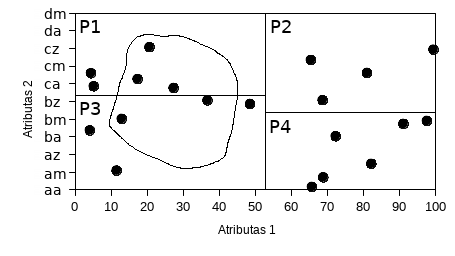
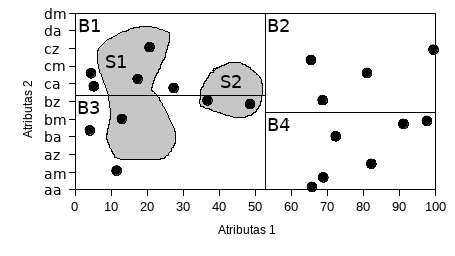
Fix introduction according to professors remarks

diff --git a/MagistroStudijos/MagistrinisDarbas/sections/introduction.tex b/MagistroStudijos/MagistrinisDarbas/sections/introduction.tex
@@ -7,54 +7,126 @@
 \sectionnonum{Įvadas}
 
 % Kas yra biometrines identifikavimo sistemos
-Kiekvieno žmogaus kūnas turi aibę savybių, kurios gali unikaliai jį identifikuoti (pvz.: pirštų atspaudai).
-Šių savybių egzistavimas davė pagrindą {\it biometrinėms identifikavimo sistemoms}.
-Biometrinio identifikavimo sistema yra tokia sistema, kuri geba palyginti kandidato biometrinius įrašus su aibe kitų biometrinių įrašų ir atrinkti kurie iš jų galėtų priklausyti tam pačiam žmogui.
-Tokiose sistemose yra poreikis gebėti atrinkti poaibį visų žinomų biometrinių įrašų, su kuriais būtų atliekamas biometrinis palyginimas.
+Kiekvieno žmogaus kūnas turi aibę požymių, kurie gali unikaliai jį identifikuoti (pvz.: pirštų atspaudai).
+Šių požymių egzistavimas davė pagrindą {\it biometrinėms identifikavimo sistemoms}.
+Šių sistemų paskirtis yra tarp visų užregistruotų žmonių surasti tą, kuriam priklauso duotieji biometriniai požymiai.
+Šiame darbe nagrinėjamoje sistemoje \cite{NeurotechnologyMegamatcherAccelerator} sąrašas žmonių, tarp kurių yra vykdoma paieška, yra papildomai atrenkamas pagal vartotojo pateiktą užklausą.
+Ši užklausa sąrašą paieškai sudaro pagal papildomus, ne biometrinius, duomenis (pvz.: amžių, lytį, gyvenamąją vietą) priskirtus kiekvienam sistemoje užregistruotam žmogui.
+Tokios užklausos vadinamos {\it biografinėmis užklausomis}.
 
-% Kas yra biografinė užklausa ir biografiniai atributai?
-Šio poaibio sudarymas bei biometrinių įrašų palyginimas vadinamas {\it biografinių užklausų apdorojimu}.
-Atrinkimas yra vykdomas pagal {\it biografinius atributus}.
-Su kiekvienu biometriniu įrašu siejama aibė biografinių atributų (žr.: \ref{tab:exampleGallery} lentelę).
-Biografinis atributas tai yra papildomas duomuo (pvz.: žmogaus amžius, lytis, šalis kurioje gyvena ir pan.), kuris gali būti:
-\begin{itemize}
-\item skaitinio tipo
-\item simbolių eilutės (ang.: {\it string}) tipo
-\end{itemize}
-
-Esant poreikiui šis sąrašas gali būti plečiamas, tačiau darbo metu bus daroma prielaida, kad visi to pačio tipo atributai gali būti palyginami tarpusavyje.
-Bei visų galimų konkretaus tipo reikšmių aibė turi griežtą tvarką (ang.: {\it totally ordered}) palyginimo funkcijos atžvilgiu.
-
-Taip pat su biografine užklausa yra siejamas predikatas, pagal kurį yra įvertinama kiekvieno biometrinio įrašo biografinių atributų aibė siekant sudaryti įrašų poaibį palyginimams.
-Šis poaibis ir yra tas, su kuriuo bus atliekamas biometrinis palyginimas.
+\paragraph{Biografinė schema}
+Kokie konkrečiai papildomi duomenys gali būti priskiriami sistemoje užregistruotiems žmonėms yra nusprendžiama sistemos diegimo metu ir vėliau negali būti keičiami.
+Taip pat visiems registruojamiems žmonėms priskiriami tokie patys duomenys t.y. jeigu buvo nuspręsta, kad žmonėms bus papildomai priskiriamas gyvenamasis miestas ir amžius, tai šie duomenys turės būti priskirti kiekvienam žmogaus įrašui sistemos duomenų bazėje.
+Toks atributų sąrašas vadinamas {\it biografine schema}.
+Pavyzdžiui \ref{tab:exampleGallery} lentelėje pateiktame duomenų bazės pavyzdyje biografinė schema būtų \{„Miestas“, „Amžius“\}.
 
 \begin{table}[H]\footnotesize
 	\centering
 	\begin{tabular}{|c|c|c|c|}
 		\hline
-		\multirow{2}{*}{{\bf Subjektas}} & \multirow{2}{*}{{\bf Biometriniai duomenys}} & \multicolumn{2}{|c|}{{\bf Biografiniai atributai}}  \\ \cline{3-4}
-		& & {\bf Piršto atspaudo pozicija} & {\bf Amžius} \\
+		\multirow{2}{*}{{\bf Žmogus}} & \multirow{2}{*}{{\bf Biometriniai požymiai}} & \multicolumn{2}{|c|}{{\bf Papildomi duomenys}}  \\ \cline{3-4}
+		& & {\bf Miestas} & {\bf Amžius} \\
 		\hline
-		Jonas  & biometrinis įrašas & Kairys nykštys  & 25 \\ \cline{2-4}
-		       & biometrinis įrašas & Dešinys nykštys & 25 \\
+		Jonas  & biometrinių požymių įrašas & Vilnius & 25 \\ \cline{2-4}
 		\hline
-		Mindaugas & biometrinis įrašas & Kairys nykštys  & 35 \\ \cline{2-4}
-		          & biometrinis įrašas & Dešinys nykštys & 35 \\
+		Mindaugas & bioetrinių požymių įrašas & Vilnius & 35 \\ \cline{2-4}
+		\hline
+		Petras & biometrinių požymių įrašas & Kaunas & 15 \\ \cline{2-4}
+		\hline
+		Eglė & biometrinių požymių įrašas & Klaipėda & 45 \\ \cline{2-4}
 		\hline
 	\end{tabular}
 	\caption{Pavyzdiniai biometrinės identifikavimo sistemos duomenys}
 	\label{tab:exampleGallery}
 \end{table}
 
-% Kas yra biografinė schema?
-Visų biografinių atributų prasmių aibė vadinama {\it biografine schema}. Pavyzdžiui \ref{tab:exampleGallery} lentelę atitinkanti biografinė schema būtų \{„Piršto atspaudo pozicija“, „Amžius“\}.
+
+
+% Kas yra biografinė užklausa ir biografiniai atributai?
+\paragraph{Biografiniai atributai}
+
+Aptartieji papildomi duomenys vadinami {\it biografiniais atributais}.
+Verta atkreipti dėmesį į tai, kad šiame darbe biografiniai atributai yra supriešinami su biometriniais požymiais -- biografiniai atributai yra papildomi, būtinai ne biometriniai, duomenys.
+
+Nagrinėjama sistema palaiko dviejų tipų biografinius atributus:
+\begin{itemize}
+\item skaitinio tipo
+\item simbolių eilutės tipo
+\end{itemize}
+Tačiau esant poreikiui šis sąrašas gali būti plečiamas.
+
+Darbo metu bus daroma prielaida, kad tiems patiems atributams (pvz.: Petro ir Jono amžiui) yra apibrėžta palyginimo funkcija (\ref{eq:threeWayComparisonFunction}).
+\begin{equation}
+	f(x_1, x_2)=
+\begin{cases}
+	-1,& \text{jeigu } x_1 < x_2\\
+	0,& \text{jeigu } x_1 = x_2\\
+	1,& \text{jeigu } x_1 > x_2\\
+\end{cases}
+\label{eq:threeWayComparisonFunction}
+\end{equation}
+
+Čia $x_1$ ir $x_2$ yra atributo reikšmės.
+
+Taip pat darbe daroma prielaida, kad šios palyginimo funkcijos atžvilgiu atributo reikšmių aibė yra pilnai sutvarkyta. %TODO: ref?
+
+
+
+
+
+
+\paragraph{Duomenų bazės modelis}
+
+Šiame darbe remiamasi duomenų bazės modeliu „Data cube“ \cite{marcel2000modeling}.
+Nagrinėjoms sistemos \cite{NeurotechnologyMegamatcherAccelerator} atveju, daugiamatės erdvės ašys yra apibrėžiamos (\ref{eq:threeWayComparisonFunction}) funkcijos, taip kad:
+
+\begin{equation}
+	f(x_1, x_2)=-1
+\label{eq:increasingOrderOfAtributes}
+\end{equation}
+
+visiems $x_1$, $x_2$ kur $x_1$ ašyje yra „mažesnėje“ (pvz.: kairiau atributo 1 ašyje \ref{img:multidimensionalGallery} pav.) pozicijoje $x_2$ atžvilgiu.
+
+Žmonėms priskiriamų biografinių atributų reikšmių rinkiniai yra nagrinėjami kaip taškai šioje erdvėje.
+
+\begin{figure}[H]
+\begin{center}
+\includegraphics[width=0.5\textwidth]{img/MultidimensionalGallery.png}
+\caption{Pavyzdiniai biometriniai įrašai dviejų atributų (dvimatėje) reikšmių erdvėje.}
+\label{img:multidimensionalGallery}
+\end{center}
+\end{figure}
+
+\ref{img:multidimensionalGallery} paveikslėlyje pateikiamas tokios erdvės pavyzdys.
+Pavyzdyje (\ref{eq:threeWayComparisonFunction}) funkcija atributo 1 (kuris yra skaitinio tipo) reikšmes palygina pagal sveikų skaičių tvarką.
+O atributo 2 (kuris yra simbolių eilutės tipo) reikšmes palygina pagal leksikografinę tvarką.
+
+
+
+
+% Biometrinių įrašų blokai - particijos daugiamatėje erdvėje
+\paragraph{Biometrinių įrašų blokai daugiamatėje erdvėje}
+
+Nagrinėjamoje sistemoje \cite{NeurotechnologyMegamatcherAccelerator} žmogaus biometrinių požymių įrašai saugomi ir apdorojami ne po vieną, bet grupėmis.
+Šios grupės yra vadinamos {\it biometrinių įrašų blokais}.
+Kiekvienam įrašui registracijos metu yra laisvai parenkamas vienas blokas, kuriame jis bus saugomas.
+
+Šiame darbe nagrinėjamame duomenų bazės modelyje biometrinių įrašų blokai yra daugiamatės erdvės sritys, kurios apima visus konkrečiam blokui priskirtus įrašus (žr.: \ref{img:multidimensionalPartitionedGallery} pav.).
+
+\begin{figure}[H]
+\begin{center}
+\includegraphics[width=0.5\textwidth]{img/MultidimensionalPartitionedGallery.png}
+\caption{B1-B4 - erdvės sritys atitinkančios biometrinių įrašų blokus}
+\label{img:multidimensionalPartitionedGallery}
+\end{center}
+\end{figure}
+
+
 
 \paragraph{Biografinių užklausų predikatai}
 
-Vykstant biografinės užklausos apdorojimui, su ja susietas predikatas apsprendžia aibę biometrinių įrašų, kurie bus lyginami su kandidato biometriniu įrašu.
-Į šią aibę patenka tik tie biometriniai įrašai, kurių biografinių atributų aibė tenkina užklausos predikatą.
-Predikatai sistemai yra aprašomi specialia tam skirta kalba.
-\ref{tab:queryBNF} lentelė pateikia šios kalbos BNF formą.
+\cite{NeurotechnologyMegamatcherAccelerator} sistemoje žmonių sąrašas paieškai sudaromas pagal vartotojo užklausą.
+Šiai užklausai aprašyti yra skirta gramatika, kurios Backus ir Nauro forma yra pateikiama \ref{tab:queryBNF} lentelėje. %TODO ref?
 
 \begin{table}[H]\footnotesize
 	\centering
@@ -80,165 +152,73 @@ Predikatai sistemai yra aprašomi specialia tam skirta kalba.
 		raidė                         & ::= & "A" | "B" | "C" ... "Z" | "a" | "b" | "c" ... "z"  \\
 		\hline
 	\end{tabular}
-	\caption{Biografinės užklausos predikato aprašymo kalbos BNF forma}
+	\caption{Biografinės užklausos predikato aprašymo kalbos Backus ir Nauro forma}
 	\label{tab:queryBNF}
 \end{table}
 
-Keletas užklausos predikato aprašymo pavyzdžių pateikiama \ref{tab:queryExamples} lentelėje.
+Keletas užklausos pavyzdžių pateikiama \ref{tab:queryExamples} lentelėje laikant, kad biografinė schema yra \{„Miestas“, „Amzius“\}.
 
 \begin{table}[H]\footnotesize
 	\centering
-	\begin{tabular}{|c|l|}
+	\begin{tabular}{|c|c|l|}
 		\hline
-		{\bf Užklausos predikato aprašymas} & {\bf Užklausos prasmė} \\
+		& {\bf Užklausos aprašymas} & {\bf Užklausos interpretacija} \\
 		\hline
-		Amzius > '18' & Visi suaugę žmonės\\
+		Pavyzdys 1 & Amzius >= '18' & Visi suaugę žmonės\\
 		\hline
-		Amzius > '18' AND Miestas IN ('Vilnius', 'Kaunas', 'Klaipeda') & Visi suagę vilniečiai, kauniečiai ir klaipėdiečiai \\
+		Pavyzdys 2 & Amzius >= '18' AND Miestas IN ('Vilnius', 'Kaunas') & Visi suagę vilniečiai ir kauniečiai\\
 		\hline
-		NOT (Miestas = 'Vilnius' AND Amzius > '18') & Visi žmonės išskyrus suaugusius vilniečius \\
+		Pavyzdys 3 & NOT (Miestas = 'Vilnius' AND Amzius >= '18') & Visi žmonės išskyrus suaugusius vilniečius\\
 		\hline
 	\end{tabular}
-	\caption{Užklausų predikato aprašymo pavyzdžiai.}
+	\caption{Užklausų aprašymo pavyzdžiai.}
 	\label{tab:queryExamples}
 \end{table}
 
-% Sistemos greičio svarba, paminim, kad dirbsim su Neurotechnology akseleratorium
-\paragraph{Sistemos greitis}
 
-Biometrinio identifikavimo sistemos darbo greitis yra labai aktuali sistemos savybė.
-Kartais \cite{NeurotechnologyDRCDedublicationProject} \cite{NeurotechnologyVenezuelaDedublicationProject} tai yra pagrindinis faktorius apsprendžiantis projekto trukmę.
-Šiame darbe bus nagrinėjami metodai padedantys optimizuoti bendrą UAB „Neurotechnolgy“ biometrinės identifikavimo sistemos \cite{NeurotechnologyMegamatcherAccelerator} darbo greitį vykdant biografines užklausas.
 
-% Visa duomenų bazė RAM`e
-Tipinės biografinės užklausos metu palyginimui yra atrenkama didelė dalis visų sistemai žinomų biometrinių įrašų.
-Tai lėmė dizaino sprendimą saugoti visus sistemai žinomus biometrinius įrašus operatyviojoje kompiuterio ar serverio atmintyje darbo metu.
+\paragraph{Biografinių užklausų modelis}
 
-% Introducinam batch processingą ir blokus
-UAB „Neurotechnology“ biometrinio palyginimo algoritmai yra optimizuoti siekiant pagerinti procesoriaus spartinančiosios atminties išnaudojimą.
-Dėl šios priežasties biometriniai įrašai atmintyje laikomi optimizuojant atminties prieigos vientisumą.
-Tačiau ribotas spartinančiosios atminties kiekis lemia, kad atminties prieigos vientisumo poveikis juntamas tik iki tam tikro, nuo konkretaus procesoriaus priklausančio, atminties bloko dydžio.
-Tai lėmė, kad biometriniai įrašiai yra saugomi {\it biometrinių įrašų blokuose}.
-Biometrinių įrašų blokas yra visų žinomų biometrinių įrašų poaibis saugomas vientisame atminties bloke.
-
-Keletas svarbių biometrinių įrašų blokų savybių:
-\begin{itemize}
-\item Visų blokų dydžiai sistemoje yra vienodi.
-\item Kiekvienas biometrinis įrašas yra saugomas tiktai viename bloke siekiant maksimizuoti bendrą sistemos biometrinių įrašų talpą.
-\item Blokai gali turėti tuščių vietų.
-\item Maksimalus blokų kiekis yra ribotas ir apsrendžiamas techninės įrangos.
-\end{itemize}
-
-% Matchinam blokais
-Taip pat svarbu pastebėti tai, kad atliekant biometrinę identifikaciją biometrinio palyginimo operacijos yra vykdomos įrašų blokams, o ne pavieniams įrašams.
-Todėl net jeigu bloke yra įrašų, kurie neatitinka biografinės užklausos predikato, su jais vistiek yra vykdomas biometrinis palyginimas, tačiau jie neįtraukiami į galutinius rezultatus.
-
-%\begin{figure}[H]
-%\begin{center}
-%\includegraphics[width=0.4\textwidth]{img/BiometricRecordBlocks.eps}
-%\caption{Pavyzdiniai biometrinių įrašų blokai. \\ Čia taškai -- įrašai, o stačiakampiai -- blokai}
-%\label{img:exampleGallery}
-%\end{center}
-%\end{figure}
-
-% Aprašom problemą, kaip daugiamatės erdvės partitioningą.
-\paragraph{Duomenų reprezentacija}
-
-Šiame darbe biometriniai įrašai modeliuojami kaip taškai daugiamatėje erdvėje panašiai kaip \cite{marcel2000modeling} aptariamas „Data cube“ (žr.: \ref{img:multidimensionalGallery} pav.).
-Kiekviena erdvės ašis siejama su vieno atributo reikšmių aibe.
-Daroma prielaida, kad kiekvienam atributo tipui yra apibrėžta palyginimo funkcija, kuri apibrėžia griežtą reikšmių tvarką (ang.: {\it total order}).
-Pavyzdžiui simbolių eilutės tipo atributam galima palyginimo funcija būtų tokia, kuri palygina atributus leksikografiškai.
-Skaitiniai atributai gali būti rūšiuojami natūralia numerine tvarka.
-Atributų reikšmės pagal šią tvarką yra priskiriamos ašims (žr.: \ref{img:multidimensionalGallery} pav.).
-
-\begin{figure}[H]
-\begin{center}
-\includegraphics[width=0.5\textwidth]{img/MultidimensionalGallery.png}
-\caption{Pavyzdiniai biometriniai įrašai dviejų atributų (dvimatėje) reikšmių erdvėje.}
-\label{img:multidimensionalGallery}
-\end{center}
-\end{figure}
-
-% Biometrinių įrašų blokai - particijos daugiamatėje erdvėje
-\paragraph{Įrašų blokai daugiamatėje erdvėje}
-
-Biometriniai įrašai saugomi tik viename iš ankščiau minėtų biometrinių įrašų blokų, todėl šiuos blokus patogu analizuoti kaip daugiamatės erdvės particijas (žr.: \ref{img:multidimensionalPartitionedGallery} pav.).
-Verta paminėti, kad particija nebūtinai turi būti sulygiuota pagal erdvės ašis (nebūtinai turi būti stačiakampis dvimatės erdvės atveju ar gretasienis trimatėje erdvėje...).
-Taip pat, viena particija gali susidėti iš daugiau nei vienos, nebūtinai jungios dalies.
-Toks modelis nepraranda bendrumo ir leidžia atvaizduoti bet kokį biometrinių įrašų paskirstymą į blokus su bet kiek atributų.
-
-\begin{figure}[H]
-\begin{center}
-\includegraphics[width=0.5\textwidth]{img/MultidimensionalPartitionedGallery.png}
-\caption{Pavyzdinis skirstymas particijomis. P1-P3 - particijos atitinkančios biometrinių įrašų blokus}
-\label{img:multidimensionalPartitionedGallery}
-\end{center}
-\end{figure}
-
-Tokio modelio kontekste biometrinių įrašų pridėjimas į sistemą susideda iš šių poproblemių:
+Smulkiausias žmonių sąrašas kuriame \cite{NeurotechnologyMegamatcherAccelerator} sistema gali vykdyti paiešką yra vienas biometrinių įrašų blokas.
+Todėl vartotojo užklausos apdorojimas yra skaidomas į tokius tris etapus:
 \begin{enumerate}
-\item Parinkimo į kurią particiją bus įdedamas įrašas.
-\item Įrašų kiekiui viršyjus konstantinę ribą, particijos skėlimo į naujas particijas.
+	\item Atmetimo etapas: Atmetami visi blokai, kuriuose negali būti žmonių, kurių atributų rinkiniai atitinka vartotojo užklausą.
+	\item Paieškos etapas: Atliekama paieška blokuose, kurie liko po atmetimo etapo.
+	\item Filtravimo etapas: Atmetami visi paieškos etape rasti žmonės, kurių atributų rinkiniai neatitinka vartotojo užklausos.
 \end{enumerate}
 
-Verta pastebėti, kad sistema yra pritaikyta dirbti su didelais kiekiais įrašų, tad jų pridėjimo, bei biometriniam palyginimui skirto poaibio atrinkimo operacijos negali atsižvelgti į visus sistemoje esančius įrašus.
-Tai apriboja optimizacijas, kurias galima atlikti skirstant įrašus į blokus.
-Taip pat, įrašų perskirstymas į blokus, gali vykti nebent iteratyviai.
+Verta pastebėti, kad po atmetimo etapo likęs blokų kiekis priklauso nuo metodo, pagal kurį yra parenkama daugiamatės erdvės sritis atributų rinkinių saugojimui.
 
 
-\paragraph{Užklausų reprezentacija}
-
-Biografinės užklausos aprašomos \ref{tab:queryBNF} lentelėje gali apibrėžti bet kokį atributų reikšmių poaibį ir atitinkamai -- bet kokį biometrinių įrašų poabį.
-Neprarandant bendrumo šiuos poaibius nagrinėsime kaip vieną ar daugiau uždarų plotų atributų erdvėje -- poerdvių (žr.: \ref{img:multidimensionalPartitionedGalleryWithQuery} pav.). %todo: citata
-O ankščiau apibūdintas predikatas bus išreiškiamas kaip funkcija, kuri nustato ar biometrinių įrašų blokas persidengia su nors vienu iš užklausos poerdvių.
-
-\begin{figure}[H]
-\begin{center}
-\includegraphics[width=0.5\textwidth]{img/MultidimensionalPartitionedGalleryWithQuery.png}
-\caption{Pavyzdinė užklausa, kurios metu būtų palyginimi P1 ir P3 blokai.}
-\label{img:multidimensionalPartitionedGalleryWithQuery}
-\end{center}
-\end{figure}
-
-Bendruoju atveju, kuo užklausos poerdviai geriau atitinka biometrinių įrašų particijas, tuo mažiau atliekama nereikalingų biometrinių palyginimų.
-
-\paragraph{Blokų užpildymo problema}
-
-Biometrinių įrašų bloko dydis yra apribotas iš viršutinės pusės ir konkretaus bloko įrašų kiekiui pasiekus tą ribą, blokas yra skeliamas į du naujus.
-Tai reiškia, kad priklausomai nuo metodo, pagal kurį įrašai yra skirstomi į blokus, blokai yra užpildyti nuo 50\% iki 100\%.
-Verta pastebėti, kad neužpildytos vietos blokuose bereikalo švaisto atmintį ir blogiausiu atveju, kai užpildymas yra 50\% -- išvaistoma pusė blokam skirtos atminties.
-Todėl šiame darbe būtina atsižvelgti į šią problemą.
 
 \paragraph{Darbo tikslas}
 
-Šio darbo metu siekiama aprašyti bei įvertinti keletos biometrinių įrašų skaidymo į blokus metodų poveikį bendram UAB „Neurotechnolgy“ sistemos darbo greičiui bei palyginti juos su nemodifikuota sistema.
-Įvertinimas remiasi sąlyga, kad yra naudojamos biografinės užklausos realistiškai atspindinčios užklausas pasitaikančias realiose instaliacijose.
-Darbo metu bus nagrinėjami du metodai:
+Šio darbo metu siekiama padidinti biometrinės identifikavimo sistemos \cite{NeurotechnologyMegamatcherAccelerator} pralaidumą minimizuojant biometrinių įrašų blokų skaičių, kuris lieka po atmetimo etapo.
+
+Šiuo tiklsu bus įvertinami du metodai
 \begin{itemize}
-		\item Metodas paremtas priešdėliniu rūšavimu, kuris nuo šiol bus vadinamas „Prefix search“.
-		\item Metodas paremtas daugiamačiu „K-d medžiu“.
+		\item Metodas paremtas priešdėliniu rūšavimu.
+		\item Metodas paremtas K-d medžiu.
 \end{itemize}
 
 Darbą planuojama skirstyti į tokius uždavinius:
 
 \begin{enumerate}
-	\item Pasiruošti testavimo duomenis, išanalizuoti tipinių užklausų statistines savybes.
-	\item Empiriškai įvertinti sistemos greičio priklausomybę nuo maksimalaus biometrinių įrašų bloko dydžio.
-	\item Surasti sprendimą blokų užpildymo problemai.
-	\item Apibrėžti bei įvertinti metodą paremtą „Prefix search“ biometrinių įrašui skirstymu į blokus.
-	\item Apibrėžti bei įvertinti metodą paremtą „K-d medžiu“ biometrinių įrašui skirstymu į blokus.
+	\item Išanalizuoti tipinių užklausų statistines savybes, pasiruošti testavimo duomenis.
+	\item Empiriškai įvertinti sistemos pralaidumo priklausomybę nuo įrašų skaičius bloke.
+	\item Apibrėžti bei įvertinti metodą paremtą priešdėliniu rūšiavimu.
+	\item Apibrėžti bei įvertinti metodą paremtą K-d medžiu.
 \end{enumerate}
 
 Šis darbas struktūrizuojamas taip:
-I skyriuje apžvelgiami kiti panašūs darbai, aptariama kas jau buvo daroma, kuo remiasi šis darbas.
+I skyriuje apžvelgiami kiti panašūs darbai bei pateikiami šaltiniai, kuriais remiasi šis darbas.
 II skyriuje nagrinėjamos užklausos.
-Kokios savybės išplaukia iš apibrėžtos užklausų gramatikos, kokiomis statistinėmis savybėmis pasižymi UAB „Neurotechnolgy“ klientų dažniausiai pateikiamos užklausos.
-Aprašoma kaip bus palyginami skirstymo į blokus metodai, bei aprašomas testavimo duomenų rinkinys.
-III skyriuje empiriškai nustatoma maksimalaus bloko dydžio poveikis sistemos darbo greičiui.
-Parenkamas bloko dydis, kuris bus naudojamas „Prefix search“ ir „K-d medžio“ metodų įvertinimui.
-IV skyriuje aptariama blokų užpildymo problema, pateikiamas galimas sprendimas remiantis virtualios atminties principais.
-V skyriuje apibrėžiamas „Prefix search“ metodas atributų skirstymui į blokus, įvertinamos jo efektyvumas.
-VI Skyriuje apibrėžiamas „K-d medžiu“ paremtas metodas atributų skirstymui į blokus, įvertinamas jo efektyvumas.
-Ir galiausiai aprašomi pasiekti rezultatai, ateities darbų kryptys bei pateikiamos išvados.
+Aptariama kokios užklausų savybės išplaukia iš apibrėžtos gramatikos, kokiomis statistinėmis savybėmis pasižymi vartotojų dažniausiai pateikiamos užklausos.
+III skyriuje aprašoma kaip bus palyginami įrašų priskyrimo sritims metodai, bei aprašomas testavimo duomenų rinkinys.
+IV skyriuje empiriškai nustatoma maksimalaus bloko dydžio poveikis sistemos darbo greičiui.
+Parenkamas bloko dydis, kuris bus naudojamas palyginant metodus.
+V skyriuje apibrėžiamas metodas paremtas priešdėliniu rūšiavimu, įvertinamos jo efektyvumas.
+VI skyriuje apibrėžiamas metodas paremtas K-d medžiu, įvertinamas jo efektyvumas.
+Ir galiausiai aprašomi pasiekti rezultatai bei pateikiamos išvados.
 
 
